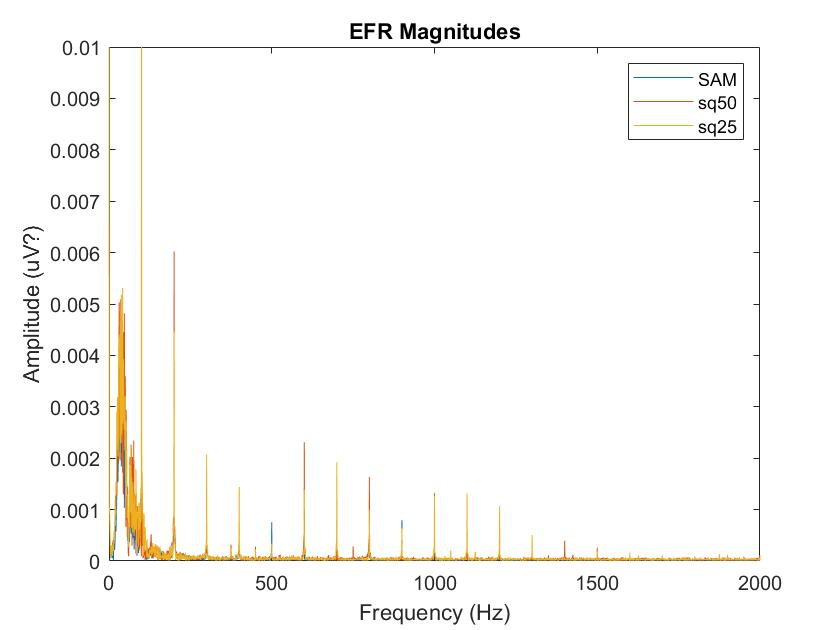
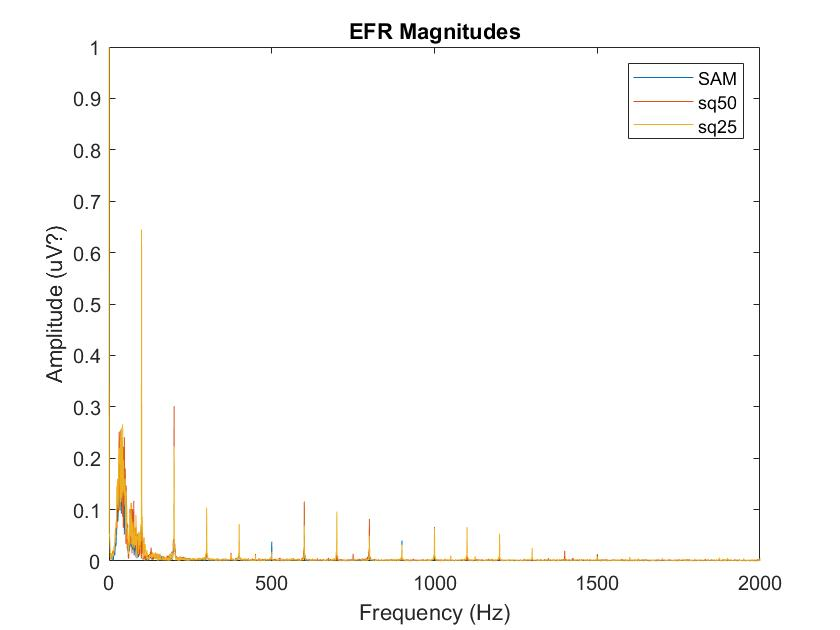
Adjusted gain and units for amplitude

diff --git a/FFR_AnalysisCode.m b/FFR_AnalysisCode.m
@@ -24,23 +24,25 @@ clear ans;
 %SAM 
 SAM_NP = cell2mat(SAM_data.AD_Data.AD_Avg_NP_V);
 SAM_PO = cell2mat(SAM_data.AD_Data.AD_Avg_PO_V);
-SAM_envresponse = SAM_NP+SAM_PO;
+SAM_envresponse = (SAM_NP+SAM_PO)/SAM_data.AD_Data.Gain;
 
 %Sq50
 sq50_NP = cell2mat(sq_50_data.AD_Data.AD_Avg_NP_V);
 sq50_PO = cell2mat(sq_50_data.AD_Data.AD_Avg_PO_V);
-sq50_envresponse = sq50_NP+sq50_PO;
+sq50_envresponse = (sq50_NP+sq50_PO)/sq_50_data.AD_Data.Gain;
 
 %Sq25
 sq25_NP = cell2mat(sq_25_data.AD_Data.AD_Avg_NP_V);
 sq25_PO = cell2mat(sq_25_data.AD_Data.AD_Avg_PO_V);
-sq25_envresponse = sq25_NP+sq25_PO;
+sq25_envresponse = (sq25_NP+sq25_PO)/sq_25_data.AD_Data.Gain;
+
 
 %% Begin Analysis
 Fs = 48828;
+toUV = 1e6; %needed to get amplitude in right units
 
 %SAM:
-mag_SAM_envresponse = fft(SAM_envresponse);
+mag_SAM_envresponse = fft(SAM_envresponse*toUV);
 T = 1/Fs; %Sampling Period
 L = length(SAM_envresponse);
 P2 = abs(mag_SAM_envresponse/L);
@@ -49,22 +51,22 @@ P1_SAM = P2(1:L/2+1);
 f = Fs*(0:(L/2))/L;
 
 %sq_50
-mag_sq50_envresponse = fft(sq50_envresponse);
+mag_sq50_envresponse = fft(sq50_envresponse*toUV);
 T = 1/Fs; %Sampling Period
 L = length(sq50_envresponse);
 P2 = abs(mag_sq50_envresponse/L);
 P1_sq50 = P2(1:L/2+1); 
 
 %sq_25
-mag_sq25_envresponse = fft(sq25_envresponse);
+mag_sq25_envresponse = fft(sq25_envresponse*toUV);
 T = 1/Fs; %Sampling Period
 L = length(sq25_envresponse);
 P2 = abs(mag_sq25_envresponse/L);
 P1_sq25 = P2(1:L/2+1); 
 
-
+fig1 = figure;
 plot(f,P1_SAM,f,P1_sq50,f,P1_sq25);
-ylim([0,0.01]);
+ylim([0,1]);
 ylabel("Amplitude (uV?)");
 xlim([0,2000]);
 xlabel("Frequency (Hz)");
@@ -78,7 +80,7 @@ SAM_trunc = SAM_envresponse(window(1)*Fs:window(2)*Fs);
 sq50_trunc = sq50_envresponse(window(1)*Fs:window(2)*Fs);
 sq25_trunc = sq25_envresponse(window(1)*Fs:window(2)*Fs);
 
-mag_SAM_envresponse = fft(SAM_trunc);
+mag_SAM_envresponse = fft(SAM_trunc*toUV);
 T = 1/Fs; %Sampling Period
 L = length(SAM_trunc);
 P2 = abs(mag_SAM_envresponse/L);
@@ -86,27 +88,28 @@ P1_SAM = P2(1:L/2+1);
 
 f = Fs*(0:(L/2))/L;
 
-mag_sq50_envresponse = fft(sq50_trunc);
+mag_sq50_envresponse = fft(sq50_trunc*toUV);
 T = 1/Fs; %Sampling Period
 L = length(sq50_trunc);
 P2 = abs(mag_sq50_envresponse/L);
 P1_sq50 = P2(1:L/2+1); 
 
 
-mag_sq25_envresponse = fft(sq25_trunc);
+mag_sq25_envresponse = fft(sq25_trunc*toUV);
 T = 1/Fs; %Sampling Period
 L = length(sq25_trunc);
 P2 = abs(mag_sq25_envresponse/L);
 P1_sq25 = P2(1:L/2+1); 
 
-figure;
+fig2 = figure;
 plot(f,P1_SAM,f,P1_sq50,f,P1_sq25)
-ylim([0,0.01]);
+ylim([0,1]);
 ylabel("Amplitude (uV?)");
 xlim([0,2000]);
 xlabel("Frequency (Hz)");
 legend("SAM","sq50","sq25");
-title("EFR Magnitudes")
+title("EFR Magnitudes with truncated window")
+
 %% for fun
 player = audioplayer([SAM_NP,SAM_NP],Fs);
 player.play();
